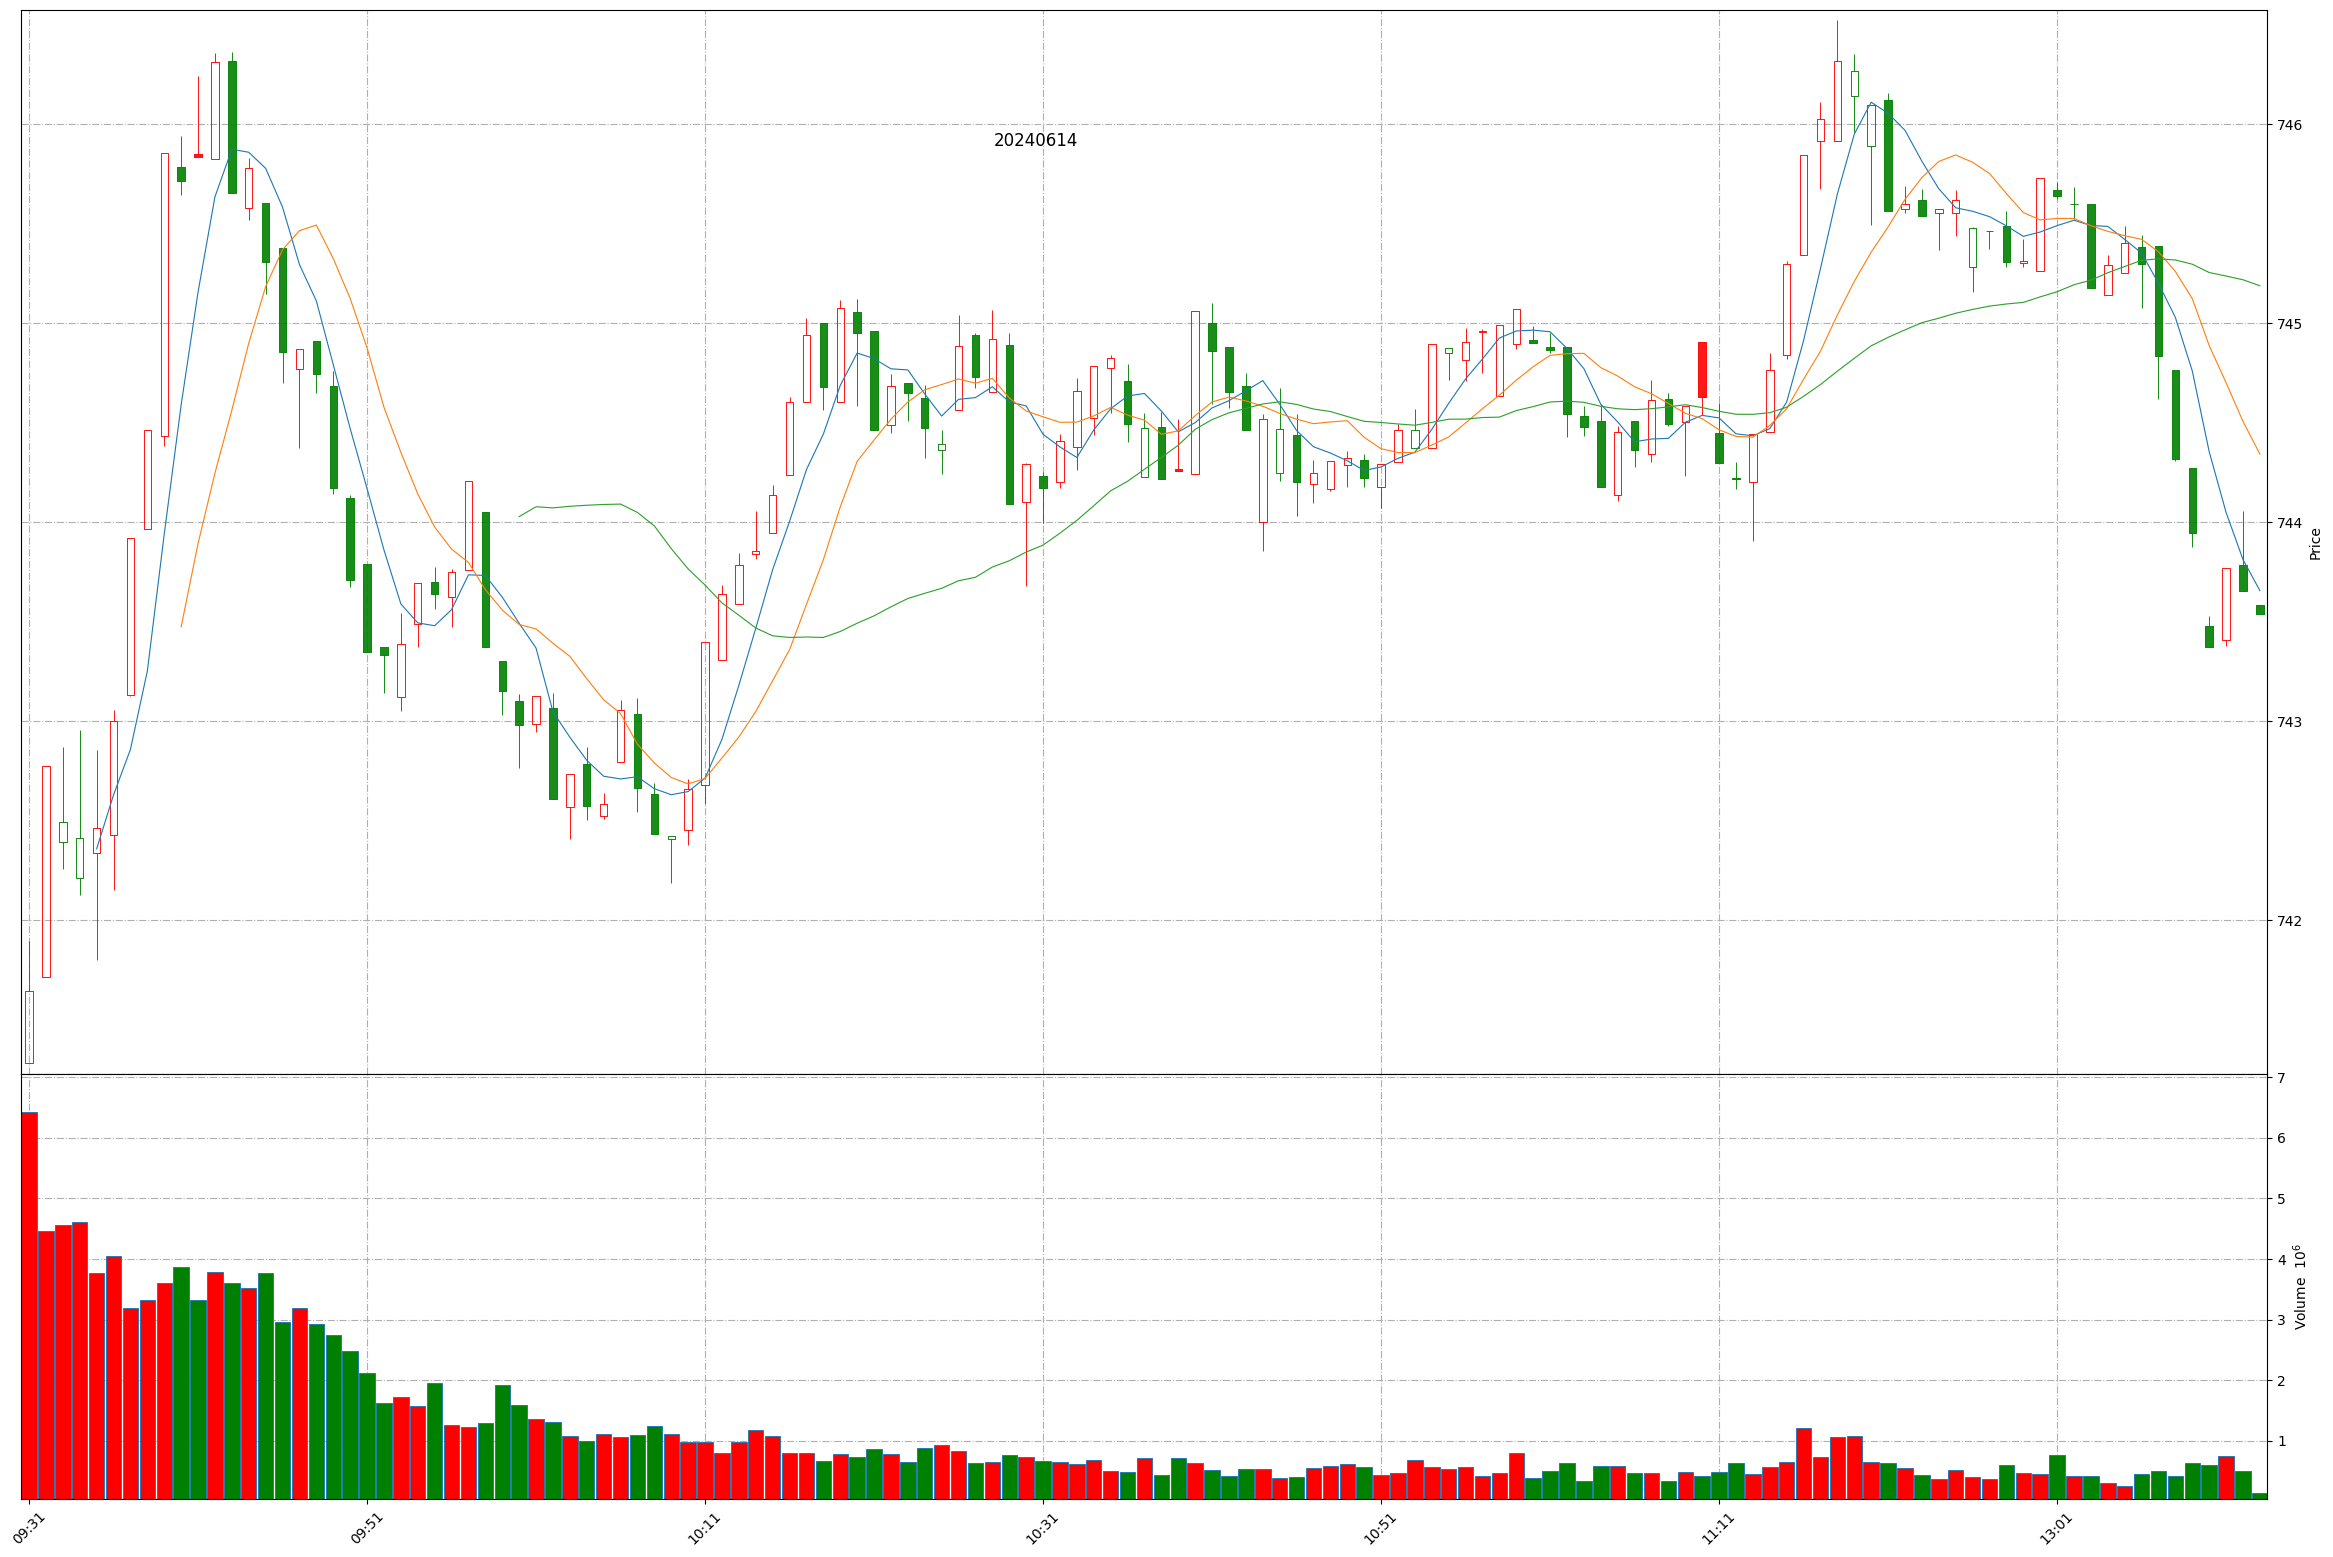
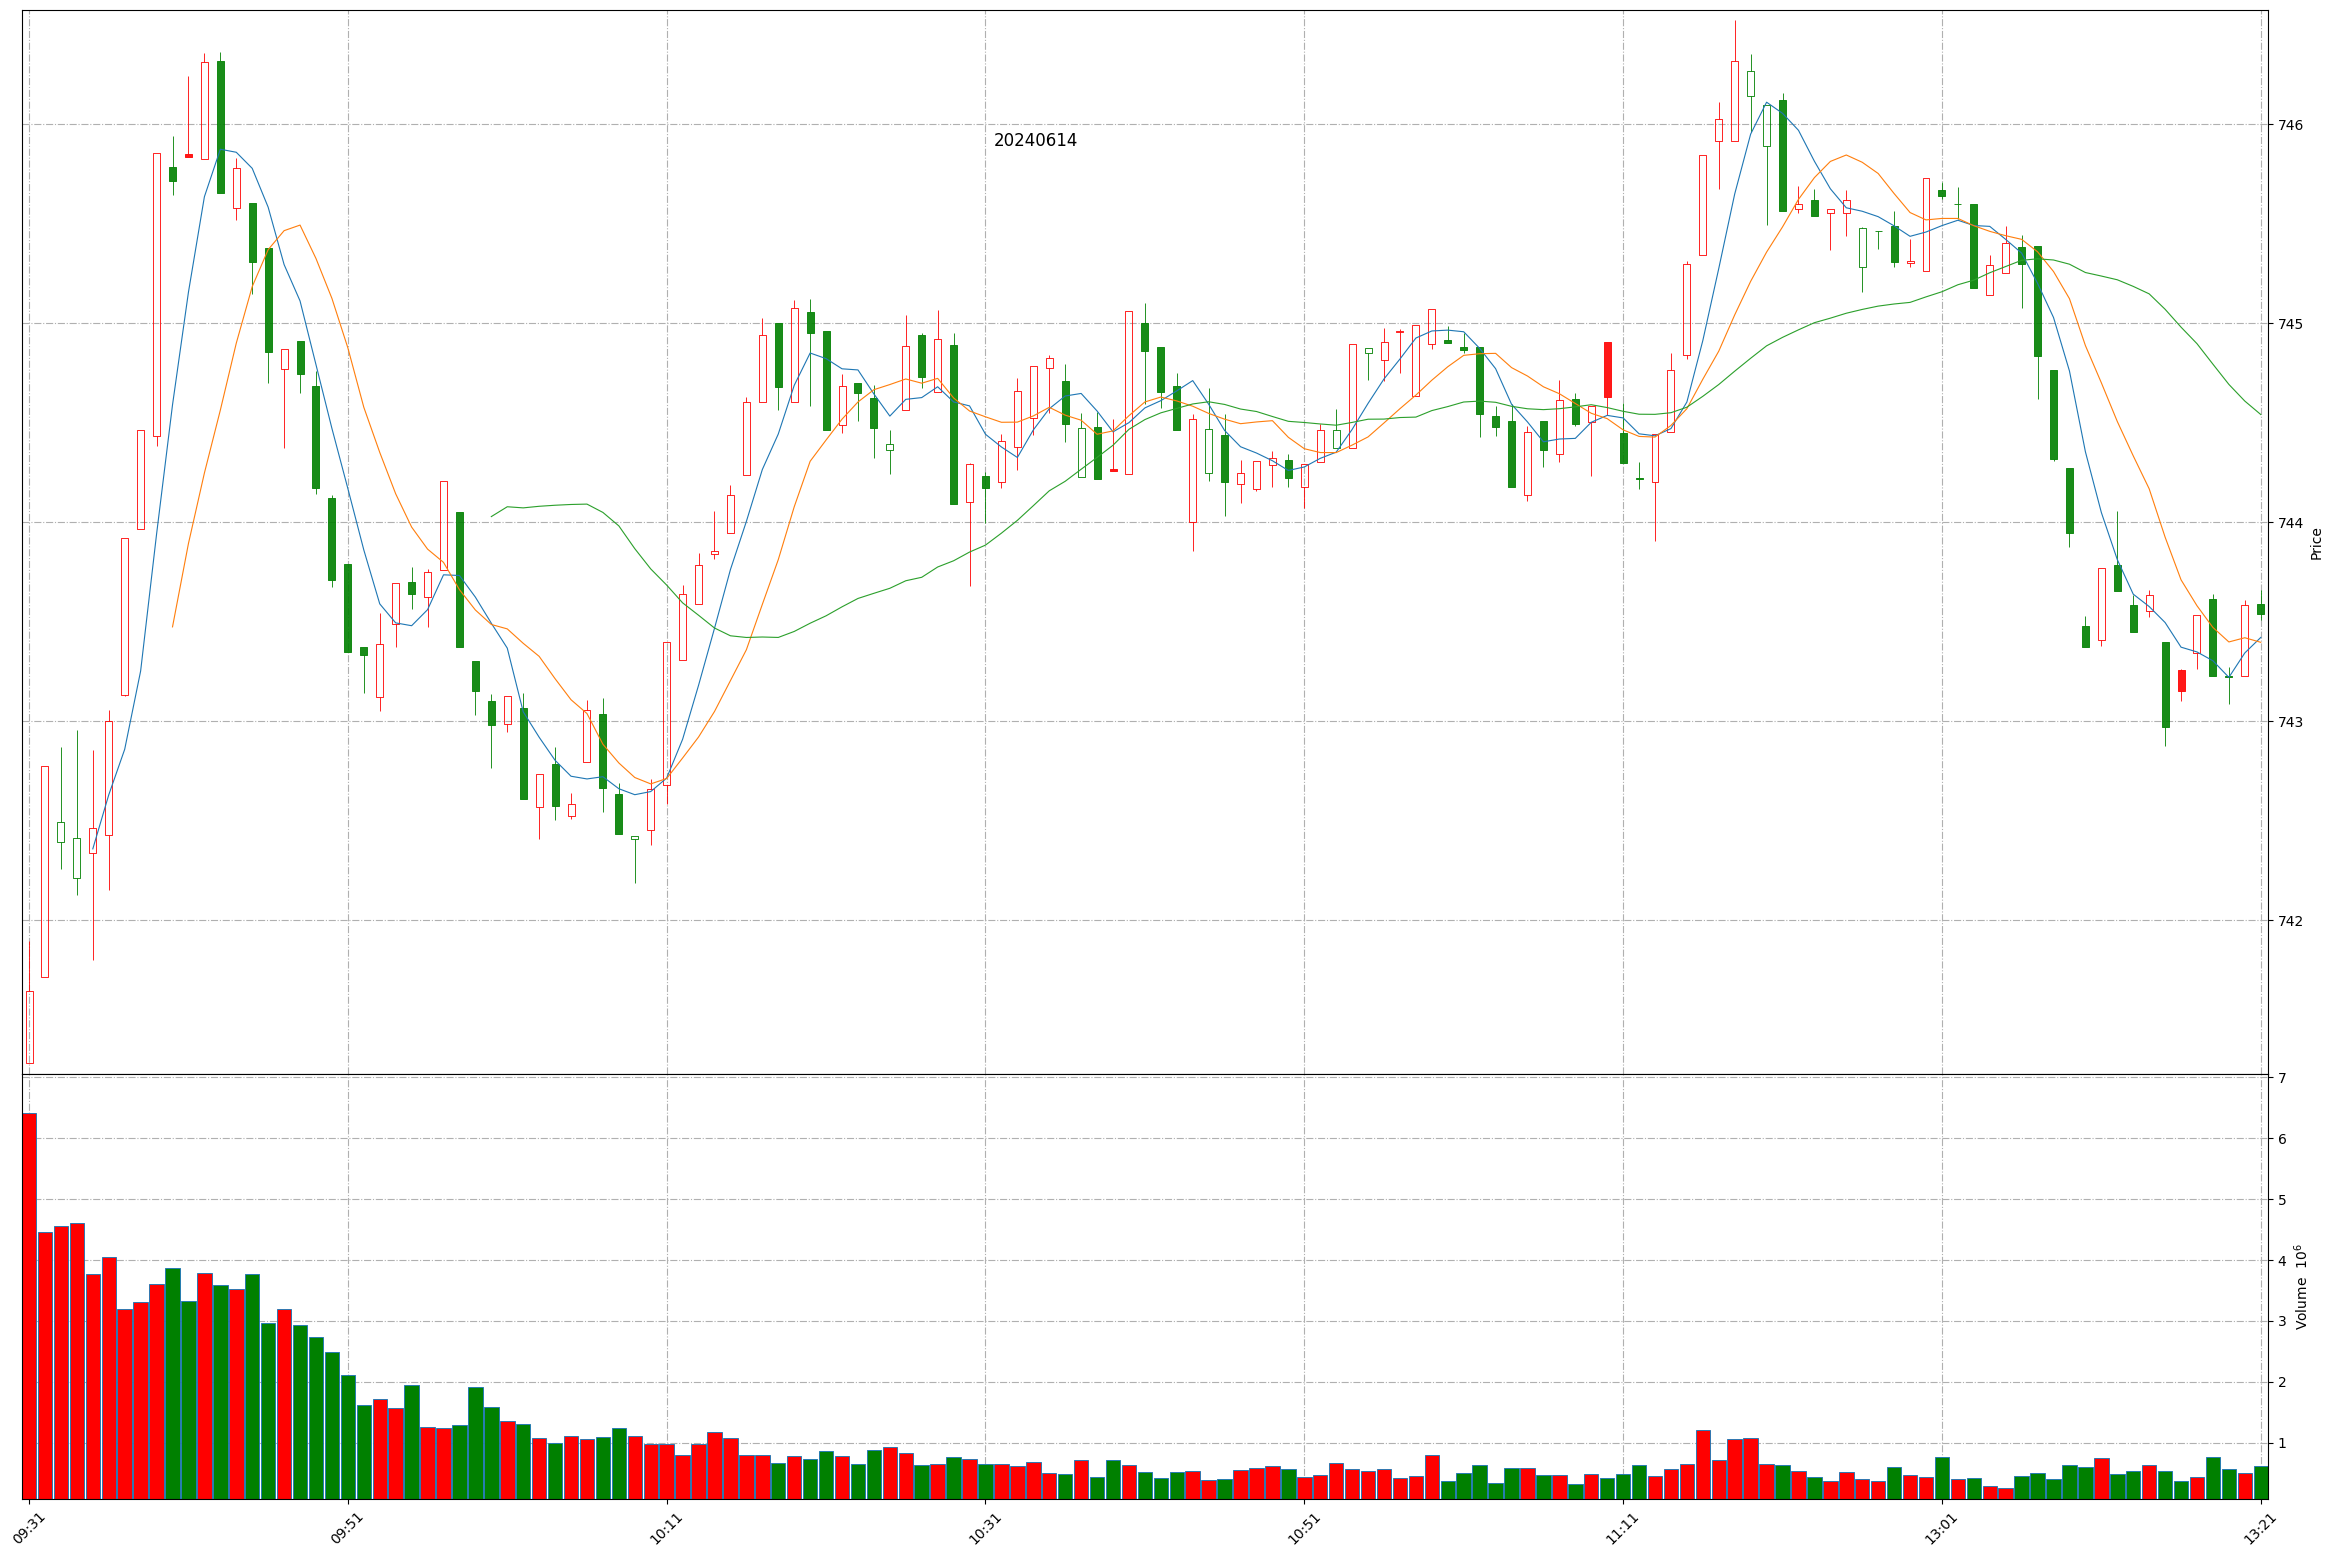
Github action update at 2024-06-14 13:20:52.

diff --git a/README.md b/README.md
@@ -1,11 +1,11 @@
 
 # Daily-A-share-market-quotes 每日 A 股指数（5min 更新）- 20240614
 
-### 上证指数 20240614 13:12
+### 上证指数 20240614 13:20
 ![](./fig/2024/6/20240614-sh000001.png)
 
-### 深证成指 20240614 13:12
+### 深证成指 20240614 13:20
 ![](./fig/2024/6/20240614-sz399001.png)
 
-### 北证50 20240614 13:12
+### 北证50 20240614 13:20
 ![](./fig/2024/6/20240614-bj899050.png)
